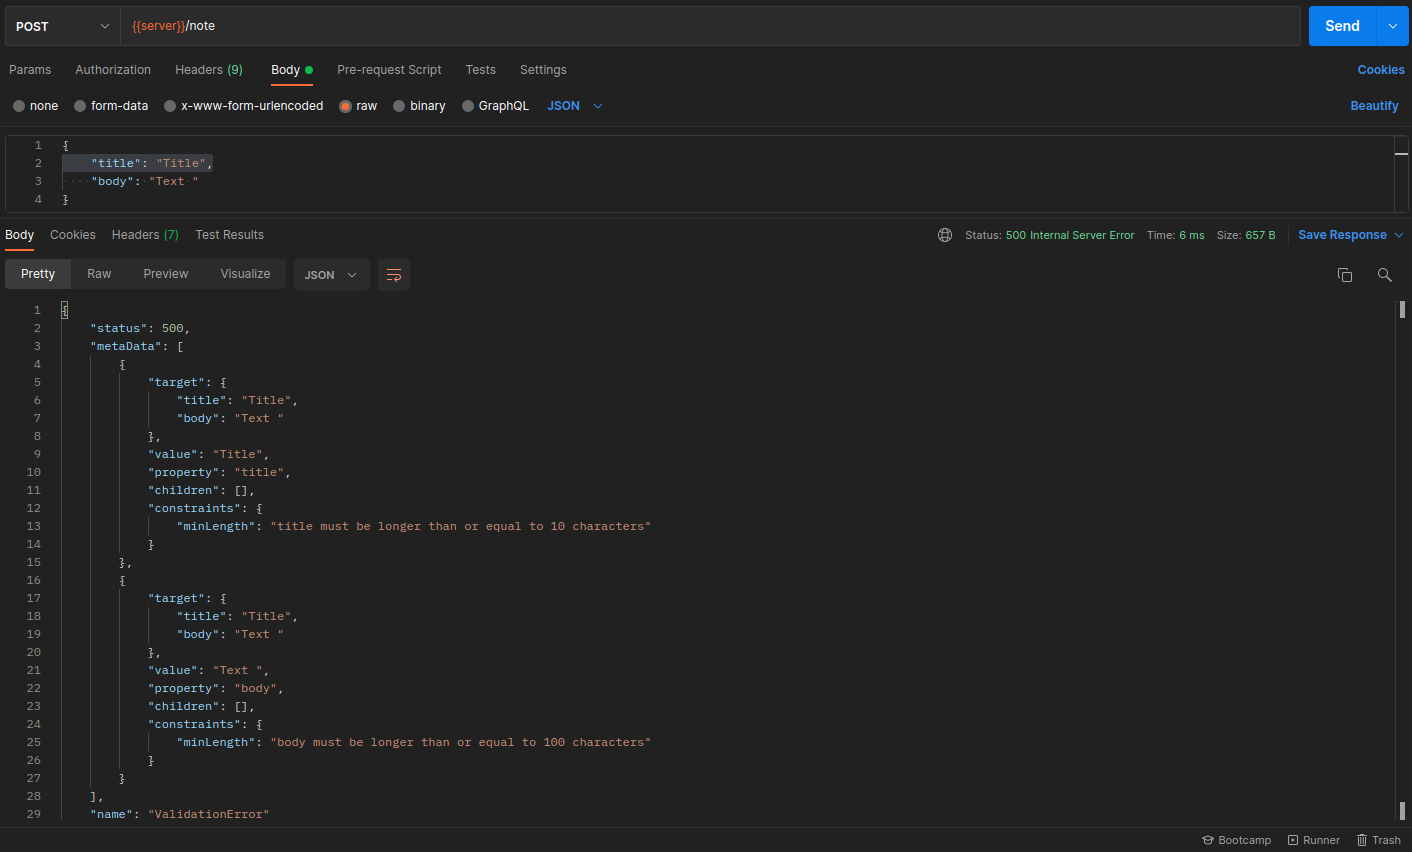
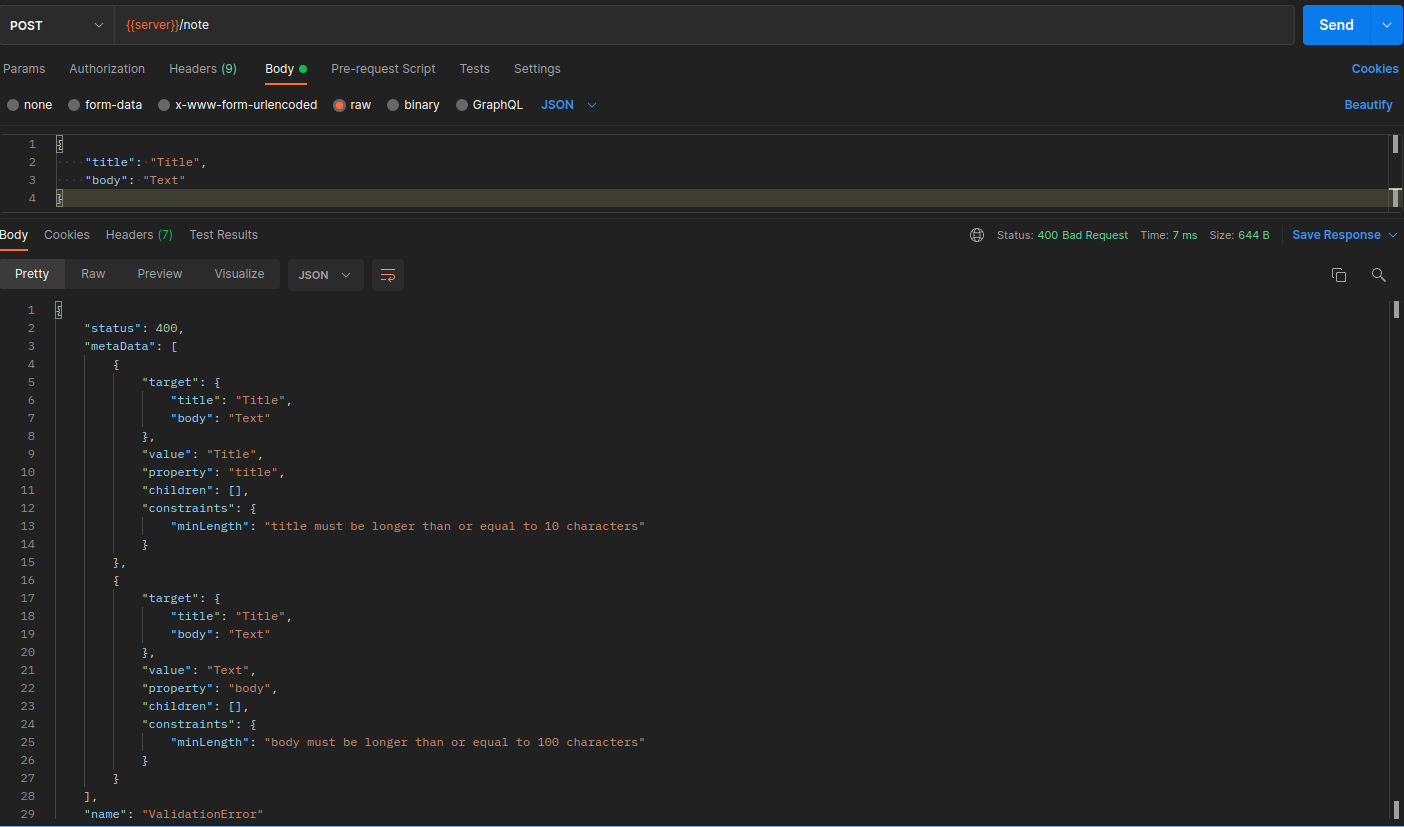
tutorial-4 wrap 1

diff --git a/tutorial-4/src/error-handler/error-exception.ts b/tutorial-4/src/error-handler/error-exception.ts
@@ -15,6 +15,7 @@ export class ErrorException extends Error {
         break;
       case ErrorCode.MaximumAllowedGrade:
       case ErrorCode.DuplicateEntityError:
+      case ErrorCode.ValidationError:
         this.status = 400;
         break;
       case ErrorCode.AsyncError:

diff --git a/tutorial-4.md b/tutorial-4.md
@@ -28,7 +28,7 @@ export class Note {
 ```
 
 
-Code for mongoose will looklike:
+Code for mongoose.
 ```typescript
 import { model, Model, Schema } from 'mongoose';
 import { Note } from './note.model';
@@ -146,18 +146,16 @@ app.post('/note', authMiddleware, async (req: Request, res: Response, next: Next
 });
 ```
 
-Now that everything is prepared, we can check what happens when we send data which is not valid and data which is valid.
+Now that everything is prepared, we can check what happens when we send data which is not valid and when we send data which is valid.
+
 If we look at `Example 1` we will see that the field `title` field is missing and that field `body` is missing the character length.
+![Example 1](https://raw.githubusercontent.com/nisicadmir/nodejs-typescript/master/tutorial-4/example_1.png "Example 1")
 
-![Example 1](file:///home/admir/Desktop/Projects/nodejs-typescript/tutorial-4/example_1.png "Example 1")
+In `Example 2` we can see that the field `title` is present but the character lenght is not met, same is with field `body`.
+![Example 2](https://github.com/nisicadmir/nodejs-typescript/blob/master/tutorial-4/example_2.png?raw=true "Example 2")
 
-In example 2 we can see that the field `title` is present but the character lenght is not met, same is with field `body`.
-
-![Example 2](https://external-content.duckduckgo.com/iu/?u=https%3A%2F%2Fpngimg.com%2Fuploads%2Fapple%2Fapple_PNG12436.png&f=1&nofb=1 "Example 2")
-
-Finally in example 3 we can see that both `title` and `body` met the requirements and that we successfully created note.
-
-![Example 3](https://external-content.duckduckgo.com/iu/?u=https%3A%2F%2Fpngimg.com%2Fuploads%2Fapple%2Fapple_PNG12436.png&f=1&nofb=1 "Example 3")
+Finally in `Example 3` we can see that both `title` and `body` meet the requirements and that we have successfully created a note.
+![Example 3](https://github.com/nisicadmir/nodejs-typescript/blob/master/tutorial-4/example_3.png?raw=true "Example 3")
 
 
 # Wrapping up
